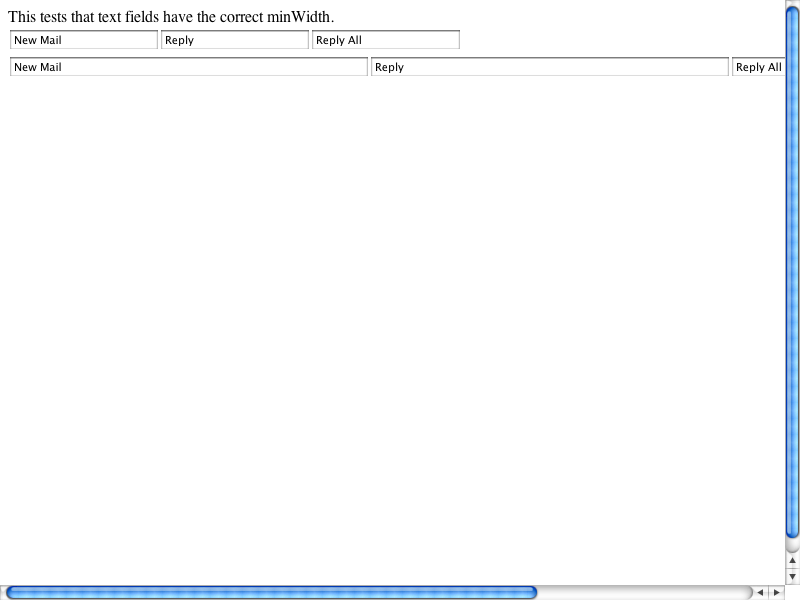
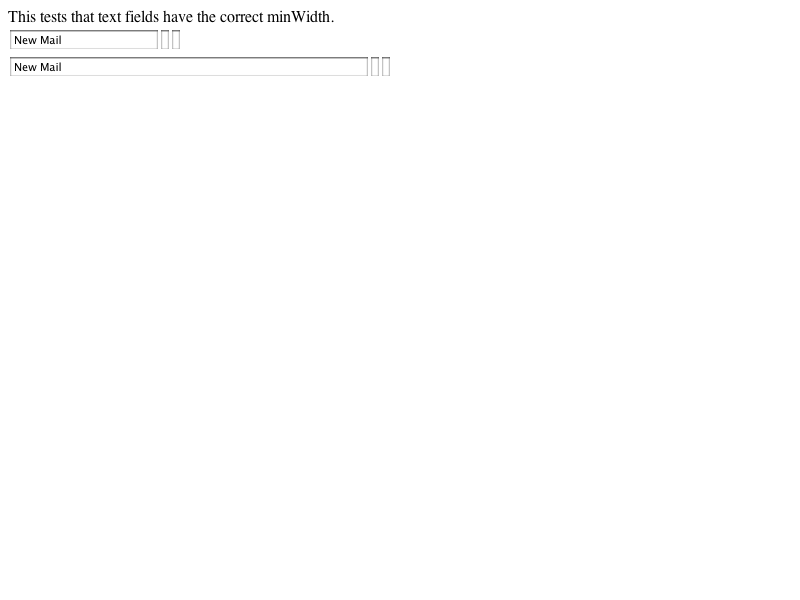
Reviewed by Darin.
Fix for http://bugzilla.opendarwin.org/show_bug.cgi?id=8203 
        REGRESSION: "Invite a friend" text field in GMail page spills out 
        of table

        RenderReplaced::calcMinMaxWidth() sets m_minWidth to 0 when the 
        width is a percent, so this patch copies that behavior into 
        RenderTextField::calcMinMaxWidth().

git-svn-id: https://svn.webkit.org/repository/webkit/trunk@13723 268f45cc-cd09-0410-ab3c-d52691b4dbfc

Changed region(s): [[0.0, 0.0, 1.0, 1.0], [0.1875, 0.03, 0.5625, 0.09]]

diff --git a/LayoutTests/fast/forms/minWidthPercent.html b/LayoutTests/fast/forms/minWidthPercent.html
@@ -1,0 +1,5 @@
+<div style="width: 16.6ex; background: rgb(195, 217, 255)">
+    <table><tbody><tr><td>
+        <input style="width: 100%;" value="Should fit in blue box">
+    </td></tr></tbody></table>
+</div>

diff --git a/WebCore/rendering/RenderTextField.cpp b/WebCore/rendering/RenderTextField.cpp
@@ -236,7 +236,9 @@ void RenderTextField::calcMinMaxWidth()
     if (style()->minWidth().isFixed() && style()->minWidth().value() > 0) {
         m_maxWidth = max(m_maxWidth, calcContentBoxWidth(style()->minWidth().value()));
         m_minWidth = max(m_minWidth, calcContentBoxWidth(style()->minWidth().value()));
-    } else
+    } else if (style()->width().isPercent() || (style()->width().isAuto() && style()->height().isPercent()))
+        m_minWidth = 0;
+    else
         m_minWidth = m_maxWidth;
     
     if (style()->maxWidth().isFixed() && style()->maxWidth().value() != undefinedLength) {
